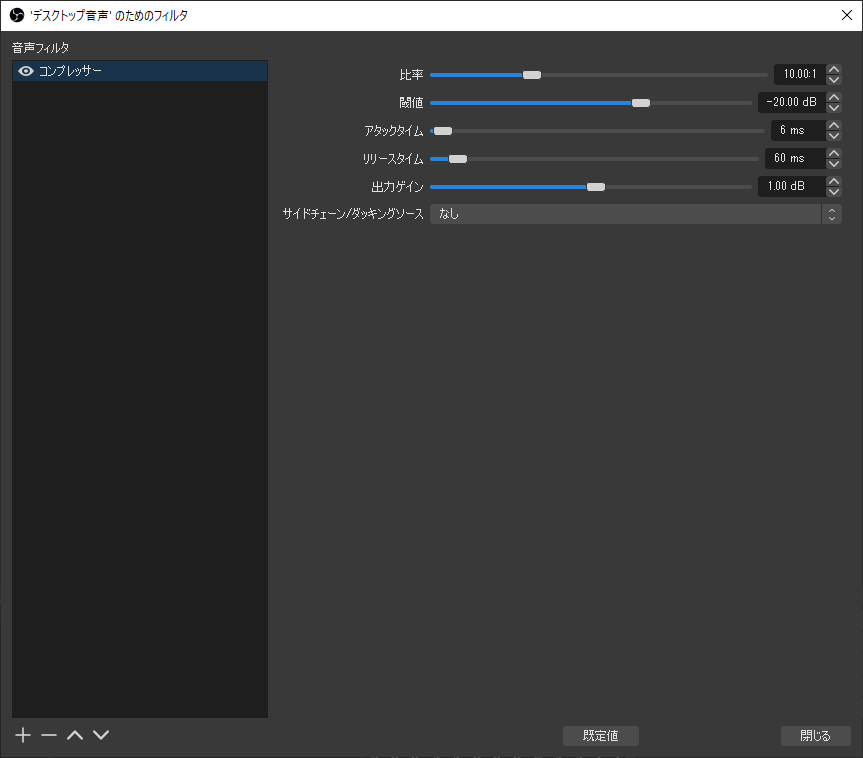
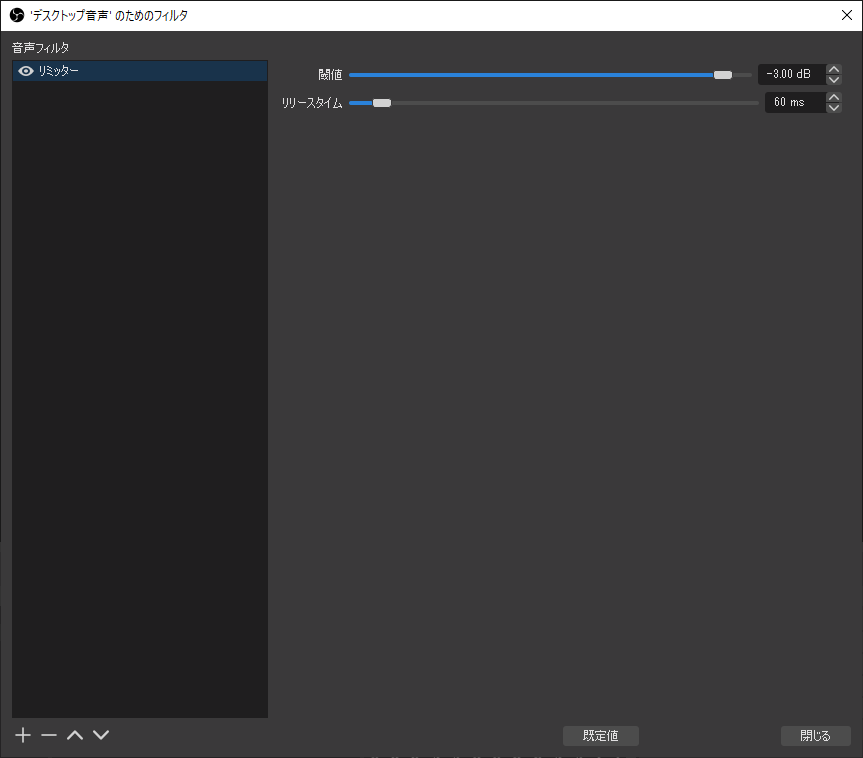
update

diff --git a/obs-setting.html b/obs-setting.html
@@ -55,42 +55,57 @@ window.onload = () => {
 	<hr>
 
 	<h3>映像キャプチャデバイスのプロパティ</h3>
-	<img src="./img/obs/002.png">
+	<img src="./img/obs/002.png?1">
 	<p>こんな感じです。設定内容は使用しているキャプチャーボードによって全然違ってくると思います。</p>
-	<p>解像度は1280x720にしています（どうせ配信の解像度が1280x720なので）。</p>
 	<hr>
 
 	<h3>オーディオの詳細プロパティ</h3>
-	<img src="./img/obs/003.png">
+	<img src="./img/obs/003.png?1">
 	<p>マイクとデスクトップ音声の同期オフセットに「80ミリ秒」を指定しています。マイクとデスクトップ音声をゲーム音に比べて80ミリ秒遅らせる、という設定です。</p>
 	<p>キャプチャーボードの性能にもよると思いますが、私が使用しているキャプチャーボードでは、ゲームの映像や音声の受信に80ミリ秒ほどの遅延が見られるので、それに合わせるための設定です。</p>
 	<p>他人のゲーム配信を見ていて「なんかキャラクターが死ぬ直前からもう配信者の悲鳴が聞こえるな」と感じたことがないでしょうか。その原因はたぶんキャプチャーボードの遅延だと思います。</p>
 	<hr>
 
 	<h3>マイクのフィルタ</h3>
-	<img src="./img/obs/005.png">
-	<img src="./img/obs/006.png">
-	<img src="./img/obs/007.png">
-	<img src="./img/obs/008.png">
-	<p>正直あんまりよくわかっていませんが、ネットで見かけた情報を参考にいろいろ足しています。</p>
-	<p>順番にも意味がある（上から順にフィルタがかかる）ので気を付けてください。</p>
+	<img src="./img/obs/005.png?1">
+	<img src="./img/obs/006.png?1">
+	<img src="./img/obs/007.png?1">
+	<img src="./img/obs/008.png?1">
+	<p><b>【ノイズゲート】</b>PCのファンの音を始めとする生活音や環境音など「声よりも小さい音量で鳴り続けているような雑音」を無視するためのフィルタです。「開放閾値」で設定した音量よりも小さい音しかマイクに入っていない間、OBSは完全にマイクを無視します。Discordにも同じ機能がありますね。</p>
+	<p><b>【ゲイン】</b>音量を増幅するフィルタです。もちろん声とともにノイズも増幅されますので注意。</p>
+	<p><b>【ノイズ抑制】</b>ノイズ部分だけを消して声をクリアにするフィルタです。OBS Studioのバージョン26からRNNoiseが追加されました。従来のフィルタ(Speex)よりもこちらのほうが綺麗になります。</p>
+	<p><b>【リミッター】</b>マイクの音量が指定した音量を超えないようにするフィルタです。これを設定しておけば、思わず大声が出たり、「ゲイン」が利きすぎて爆音になったりしても安心です。</p>
+	<p>音声フィルタは順番にも意味がある（上から順にフィルタがかかる）ので気を付けてください。</p>
+	<p>参考: <a href="http://sloppy-games.com/obs%E3%81%AE%E9%9F%B3%E5%A3%B0%E8%A8%AD%E5%AE%9A%EF%BC%88%E3%83%95%E3%82%A3%E3%83%AB%E3%82%BF%EF%BC%89%E3%81%8C%E3%82%81%E3%81%A1%E3%82%83%E3%81%8F%E3%81%A1%E3%82%83%E4%BE%BF%E5%88%A9/" target="_blank">OBSの音声フィルタの使い方、音質を最高レベルに引き上げよう！</a></p>
 	<hr>
 
 	<h3>デスクトップ音声のフィルタ</h3>
-	<img src="./img/obs/004.png">
-	<p>なんとなくコンプレッサーだけ付けています。</p>
+	<img src="./img/obs/004.png?1">
+	<p>念のため「リミッター」だけ付けています。</p>
 	<hr>
 
-	<h3>[設定]>[出力]</h3>
-	<img src="./img/obs/009.png">
-	<img src="./img/obs/010.png">
+	<h3>[設定]>[出力]>[配信]</h3>
+	<img src="./img/obs/009.png?1">
 	<p>出力モードを「基本」から「詳細」に変更しています。</p>
-	<p>QuickSync H.264 エンコーダを使うと、動作がかなり軽くなると思います。</p>
+	<p>エンコーダとして「QuickSync H.264」（「x264」以外のもの。環境によっては他の名前が出る）を使用すると、動作がかなり軽くなります。（その代わり、「x264」のときに比べてビットレートをたくさん盛ってやらないと画質が悪くなります。処理は早いけど圧縮効率が悪いということ。）</p>
+	<p>ビットレ―トは9000 Kbps。（720pで配信したいときは5000 Kbpsにします。）</p>
+	<p>参考: <a href="https://note.com/mirap0129/n/n385a91ba398b" target="_blank">【配信者さん向け】超簡単！低負荷で高画質な配信をしよう！配信設定教えます！</a></p>
+	<hr>
+	
+	<h3>[設定]>[出力]>[音声]</h3>
+	<img src="./img/obs/010.png?1">
+	<p>192 Kbpsを指定しています。たぶん128 Kbpsでよくて、おそらく私の耳では128 Kbpsと192 Kbpsを聞き分けられない。
+	</p>
 	<hr>
 
 	<h3>[設定]>[映像]</h3>
-	<img src="./img/obs/011.png">
-	<p>解像度を「1280x720」、フレームレートを「60」に設定しています。</p>
+	<img src="./img/obs/011.png?1">
+	<p>「基本解像度」「出力解像度」をともに「1920x1080」、フレームレートを「60」にしています。（720pで配信したいときは「基本解像度」「出力解像度」をともに「1280x720」にします。）</p>
+	<hr>
+
+	<h3>[設定]>[詳細設定]</h3>
+	<img src="./img/obs/012.png?1">
+	<p>プロセスの優先度を「高」に変更しています。</p>
 	<hr>
 
 </div>

diff --git a/youtube-setting.html b/youtube-setting.html
@@ -1,0 +1,87 @@
+<!DOCTYPE html>
+<html
+<head>
+<meta http-equiv="Content-Type" content="text/html; charset=UTF-8">
+<title>YouTube Liveの設定</title>
+<link rel="stylesheet" href="./css/style.css?2">
+<script type="text/javascript" src="./js/jquery.min.js"></script>
+<script type="text/javascript" src="./js/main.js?4"></script>
+<style>
+body {
+	background: #eee;
+	color: #333;
+	font-size: 18px;
+}
+#content {
+	width: 80%;
+	margin: 100px auto;
+	max-width: 800px;
+	overflow-x: hidden;
+}
+hr {
+	margin-top: 100px;
+	margin-bottom: 100px;
+}
+img {
+	transition: 300ms ease;
+	display: block;
+	max-width: 100%;
+	margin-bottom: 40px;
+}
+img:hover {
+	filter: brightness(140%);
+}
+</style>
+<script>
+window.onload = () => {
+	$('img').each(function() {
+		const src = $(this).attr('src');
+		$(this).wrap('<a href="' + src + '" target="_blank"></a>');
+	});
+};
+</script>
+</head>
+<body>
+<div id="content">
+
+	<h2>YouTube Liveの設定</h2>
+	<p>YouTube Liveで使用している設定を以下に示します。</p>
+	<hr>
+
+	<h3>ライブ配信の枠の取り方</h3>
+	<ol>
+	<li>YouTubeの画面右上の「プラスが付いたビデオカメラ」をクリックして「ライブ配信を開始」をクリック。（スケジュールの管理画面に移行する。ここをお気に入り登録しておくとよい。）</li>
+	<li>「ライブ配信をスケジュール設定」という青いボタンをクリック。</li>
+	<li>過去に配信したことがある場合、その設定を再利用することができる。</li>
+	<li>タイトルや概要欄を設定して「作成」をクリック。これで枠が取れて、スケジュールの管理画面に移行する。（タイトルや概要欄はあとから変更できる）</li>
+	<li>管理画面で、取った枠のサムネイルやタイトルをクリックすると、配信の官吏画面に移行する。</li>
+	</ol>
+	<img src="./img/live/001.png?1">
+	<img src="./img/live/002.png?1">
+	<img src="./img/live/003.png?1">
+	<img src="./img/live/004.png?1">
+	<img src="./img/live/002.png?1">
+	<img src="./img/live/005.png?1">
+	<hr>
+
+	<h3>YouTube Liveの設定</h3>
+	<img src="./img/live/006.png?1">
+	<p>こんな感じです。ゆるいゲーム配信では「超低遅延」（遅延は2～3秒）、サーモンラン配信では「低遅延」（遅延は7～8秒）を選択しています。</p>
+	<p>自動スタートや自動ストップは試してみたところ挙動が怪しい感じがしたので切っています。</p>
+	<p>DVRは巻き戻し機能のことで、まああったほうが便利であろうということで付けています。</p>
+	<p>「配信が終了したらライブのリプレイを限定公開にする」は特に必要ないのでオフ。ただしこれをオンにしても「限定公開」になるだけで「非公開」になるわけではないので、URLを知っている人はアーカイブを見れてしまいます。注意。</p>
+	<hr>
+
+	<h3>ストリームキーの設定</h3>
+	<img src="./img/live/007.png?1">
+	<p>ストリームキー右側の下向きの三角ボタンをクリックして「ストリームキーを管理」をクリックすると、既存のストリームキーの内容を変更したり削除したりできます。</p>
+	<p>「サポート可能な最大維持ビットレート」を「可変ビットレ―ト」に設定することで、OBS Studio側のエンコード設定が使用されます。デフォルトはたぶんこれ。基本的にデフォルトのキーで問題ないと思います。</p>
+	<hr>
+
+	<h3>ライブ配信の設定</h3>
+	<img src="./img/live/008.png?1">
+	<img src="./img/live/009.png?1">
+	<p>画面右上の歯車ボタンをクリックして設定できる内容です。</p>
+	<hr>
+</div>
+</body>

diff --git a/stream-info.html b/stream-info.html
@@ -35,6 +35,7 @@ a:before {
 	<p>私の配信環境やOBS Studioの設定などを示しておきます。なにか参考になる部分があれば幸いです。</p>
 	<p><a href="./stream-environment.html">配信環境など</a></p>
 	<p><a href="./obs-setting.html">OBS Studioの設定</a></p>
+	<p><a href="./youtube-setting.html">YouTube Liveの設定</a></p>
 	<p><a href="./youtube-dislike-hidden.html">YouTubeの評価を見えなくする</a></p>
 	<p><a href="./game-setting.html">Splatoon2の各種設定</a></p>
 </div>
